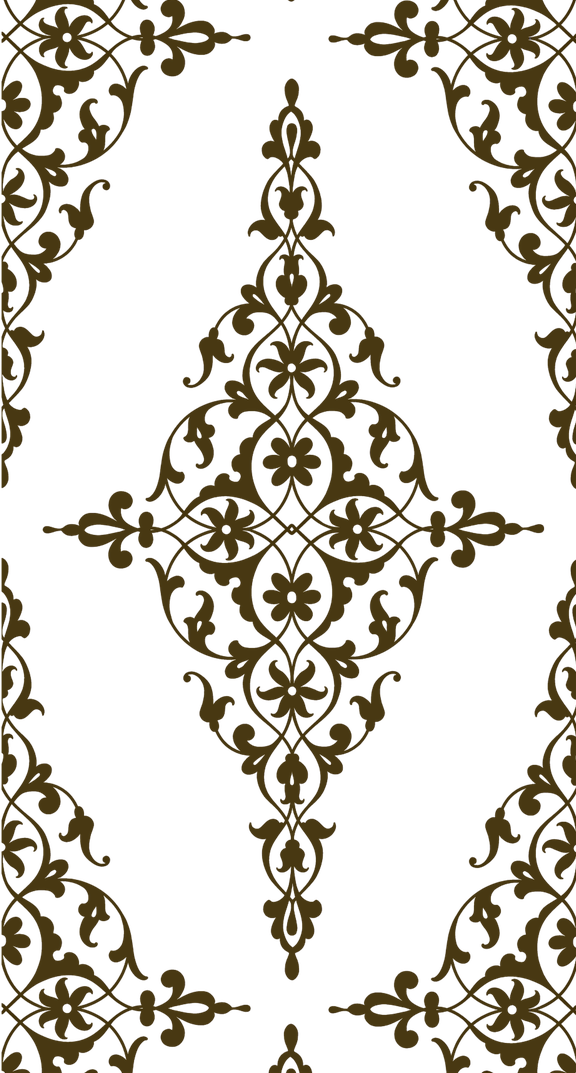
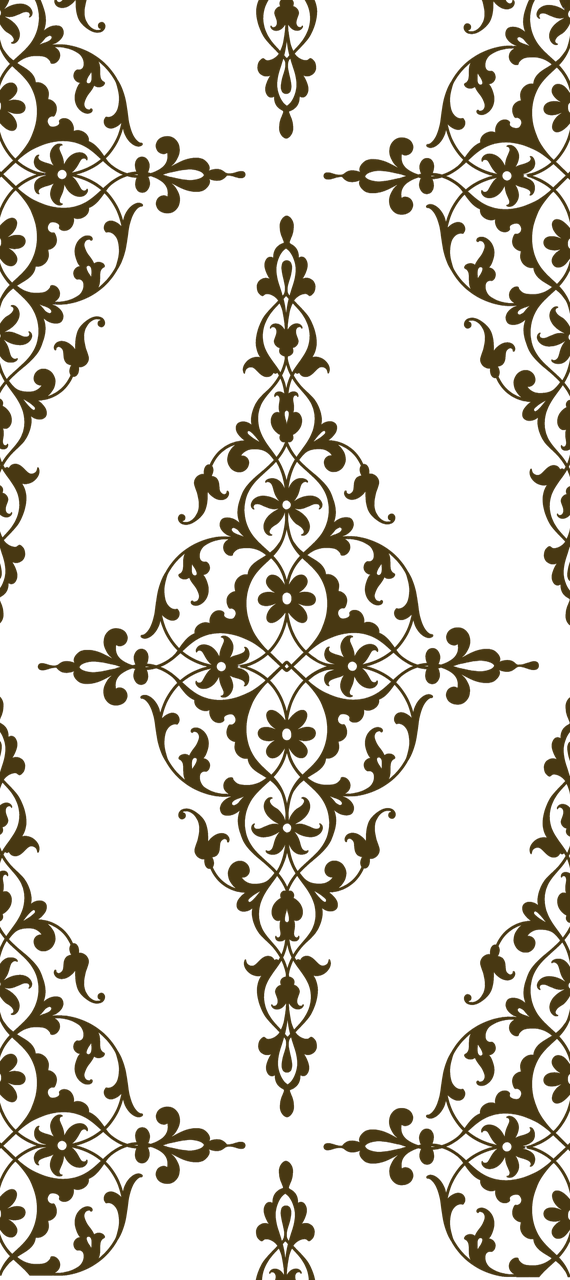
fix payment issues, delete dead code and fix background problems

diff --git a/lib/screens/payment_webview_screen.dart b/lib/screens/payment_webview_screen.dart
@@ -1,9 +1,7 @@
 import 'package:flutter/material.dart';
 import 'dart:convert';
 import 'package:http/http.dart' as http;
-import 'dart:io' show Platform;
 import 'package:webview_flutter/webview_flutter.dart';
-import 'package:webview_windows/webview_windows.dart' as webview_windows;
 
 class PaymentWebViewScreen extends StatefulWidget {
   const PaymentWebViewScreen({super.key});
@@ -16,32 +14,17 @@ class _PaymentWebViewScreenState extends State<PaymentWebViewScreen> {
   String? _paymentUrl;
   bool _loading = false;
   String? _error;
-  late final webview_windows.WebviewController _windowsController;
-  bool _windowsWebViewReady = false;
   WebViewController? _mobileWebViewController;
-  String? _selectedMethod;
 
   @override
   void initState() {
     super.initState();
-    if (Platform.isWindows) {
-      _windowsController = webview_windows.WebviewController();
-      _windowsController.initialize().then((_) {
-        setState(() {
-          _windowsWebViewReady = true;
-        });
-        if (_paymentUrl != null) {
-          _windowsController.loadUrl(_paymentUrl!);
-        }
-      });
-    }
   }
 
   Future<void> _fetchPaymentUrl(String method) async {
     setState(() {
       _loading = true;
       _error = null;
-      _selectedMethod = method;
     });
     try {
       final response = await http.post(
@@ -57,9 +40,7 @@ class _PaymentWebViewScreenState extends State<PaymentWebViewScreen> {
             _paymentUrl = confirmationUrl;
             _loading = false;
           });
-          if (Platform.isWindows && _windowsWebViewReady) {
-            _windowsController.loadUrl(_paymentUrl!);
-          } else if (!Platform.isWindows && _paymentUrl != null) {
+          if ( _paymentUrl != null) {
             _mobileWebViewController = WebViewController()
               ..setJavaScriptMode(JavaScriptMode.unrestricted)
               ..loadRequest(Uri.parse(_paymentUrl!));
@@ -112,17 +93,10 @@ class _PaymentWebViewScreenState extends State<PaymentWebViewScreen> {
     if (_paymentUrl == null) {
       return const Center(child: Text('Нет ссылки на оплату'));
     }
-    if (Platform.isWindows) {
-      if (!_windowsWebViewReady) {
-        return const Center(child: CircularProgressIndicator());
-      }
-      return webview_windows.Webview(_windowsController);
-    } else {
       if (_mobileWebViewController == null) {
         return const Center(child: CircularProgressIndicator());
       }
       return WebViewWidget(controller: _mobileWebViewController!);
-    }
   }
 
   @override
@@ -130,7 +104,7 @@ class _PaymentWebViewScreenState extends State<PaymentWebViewScreen> {
     return Container(
       decoration: const BoxDecoration(
         image: DecorationImage(
-          image: AssetImage('assets/background_new.png'),
+          image: AssetImage('assets/background.png'),
           fit: BoxFit.fitWidth,
           opacity: 0.7,
         ),
@@ -156,9 +130,6 @@ class _PaymentWebViewScreenState extends State<PaymentWebViewScreen> {
 
   @override
   void dispose() {
-    if (Platform.isWindows) {
-      _windowsController.dispose();
-    }
     super.dispose();
   }
 } 

diff --git a/lib/screens/vpn_screen.dart b/lib/screens/vpn_screen.dart
@@ -8,7 +8,6 @@ import 'package:vpn_app/screens/settings_screen.dart';
 import 'package:vpn_app/providers/auth_provider.dart';
 import 'package:vpn_app/providers/theme_provider.dart';
 import 'package:vpn_app/screens/login_screen.dart';
-import 'package:vpn_app/screens/payment_screen.dart';
 import 'package:vpn_app/screens/payment_webview_screen.dart';
 
 final logger = Logger();
@@ -75,7 +74,7 @@ class VpnScreenState extends State<VpnScreen> {
                   onPressed: () {
                     Navigator.push(
                       context,
-                      MaterialPageRoute(builder: (context) => const PaymentScreen()),
+                      MaterialPageRoute(builder: (context) => const PaymentWebViewScreen()),
                     ).then((_) {
                       setState(() {});
                     });
@@ -100,7 +99,7 @@ class VpnScreenState extends State<VpnScreen> {
       decoration: BoxDecoration(
         color: theme.scaffoldBackgroundColor,
         image: const DecorationImage(
-          image: AssetImage('assets/background_vpn_new.png'),
+          image: AssetImage('assets/background.png'),
           fit: BoxFit.fitWidth,
         ),
       ),
@@ -144,27 +143,9 @@ class VpnScreenState extends State<VpnScreen> {
                   ),
                   Column(
                     children: [
-
-                      /*ListTile(
-
                       ListTile(
-
                         leading: Icon(Icons.payment, color: theme.textTheme.bodyMedium?.color),
                         title: Text('Подписаться', style: theme.textTheme.bodyMedium),
-                        onTap: () {
-                          Navigator.pop(context);
-                          Navigator.push(
-                            context,
-                            MaterialPageRoute(builder: (context) => const PaymentScreen()),
-                          ).then((_) {
-                            setState(() {});
-                          });
-                        },
-
-                      ),*/
-                      ListTile(
-                        leading: Icon(Icons.web, color: theme.textTheme.bodyMedium?.color),
-                        title: Text('Оплата', style: theme.textTheme.bodyMedium),
                         onTap: () {
                           Navigator.pop(context);
                           Navigator.push(

diff --git a/lib/screens/register_screen.dart b/lib/screens/register_screen.dart
@@ -171,7 +171,7 @@ class _RegisterScreenState extends State<RegisterScreen> with AutomaticKeepAlive
     return Container(
       decoration: const BoxDecoration(
         image: DecorationImage(
-          image: AssetImage('assets/background_new.png'),
+          image: AssetImage('assets/background.png'),
           fit: BoxFit.fitWidth,
           opacity: 0.7,
         ),

diff --git a/lib/screens/verification_screen.dart b/lib/screens/verification_screen.dart
@@ -154,7 +154,7 @@ class _VerificationScreenState extends State<VerificationScreen> with AutomaticK
     return Container(
       decoration: const BoxDecoration(
         image: DecorationImage(
-          image: AssetImage('assets/background_new.png'),
+          image: AssetImage('assets/background.png'),
           fit: BoxFit.fitWidth,
           opacity: 0.7,
         ),

diff --git a/lib/screens/reset_password_screen.dart b/lib/screens/reset_password_screen.dart
@@ -112,7 +112,7 @@ class _ResetPasswordScreenState extends State<ResetPasswordScreen> {
     return Container(
       decoration: const BoxDecoration(
         image: DecorationImage(
-          image: AssetImage('assets/background_new.png'),
+          image: AssetImage('assets/background.png'),
           fit: BoxFit.fitWidth,
           opacity: 0.7,
         ),

diff --git a/lib/screens/settings_screen.dart b/lib/screens/settings_screen.dart
@@ -20,7 +20,7 @@ class _SettingsScreenState extends State<SettingsScreen> {
     return Container(
       decoration: const BoxDecoration(
         image: DecorationImage(
-          image: AssetImage('assets/background_new.png'),
+          image: AssetImage('assets/background.png'),
           fit: BoxFit.fitWidth,
           opacity: 0.7,
         ),

diff --git a/lib/screens/login_screen.dart b/lib/screens/login_screen.dart
@@ -221,7 +221,7 @@ class _LoginScreenState extends State<LoginScreen> {
     return Container(
       decoration: const BoxDecoration(
         image: DecorationImage(
-          image: AssetImage('assets/background_new.png'),
+          image: AssetImage('assets/background.png'),
           fit: BoxFit.fitWidth,
           opacity: 0.7,
         ),

diff --git a/lib/screens/about_screen.dart b/lib/screens/about_screen.dart
@@ -12,7 +12,7 @@ class AboutScreen extends StatelessWidget {
     return Container(
       decoration: const BoxDecoration(
         image: DecorationImage(
-          image: AssetImage('assets/background_new.png'),
+          image: AssetImage('assets/background.png'),
           fit: BoxFit.fitWidth,
           opacity: 0.7,
         ),

diff --git a/windows/flutter/generated_plugin_registrant.cc b/windows/flutter/generated_plugin_registrant.cc
@@ -10,7 +10,6 @@
 #include <screen_retriever_windows/screen_retriever_windows_plugin_c_api.h>
 #include <tray_manager/tray_manager_plugin.h>
 #include <url_launcher_windows/url_launcher_windows.h>
-#include <webview_windows/webview_windows_plugin.h>
 #include <window_manager/window_manager_plugin.h>
 #include <window_size/window_size_plugin.h>
 #include <wireguard_flutter/wireguard_flutter_plugin_c_api.h>
@@ -24,8 +23,6 @@ void RegisterPlugins(flutter::PluginRegistry* registry) {
       registry->GetRegistrarForPlugin("TrayManagerPlugin"));
   UrlLauncherWindowsRegisterWithRegistrar(
       registry->GetRegistrarForPlugin("UrlLauncherWindows"));
-  WebviewWindowsPluginRegisterWithRegistrar(
-      registry->GetRegistrarForPlugin("WebviewWindowsPlugin"));
   WindowManagerPluginRegisterWithRegistrar(
       registry->GetRegistrarForPlugin("WindowManagerPlugin"));
   WindowSizePluginRegisterWithRegistrar(
